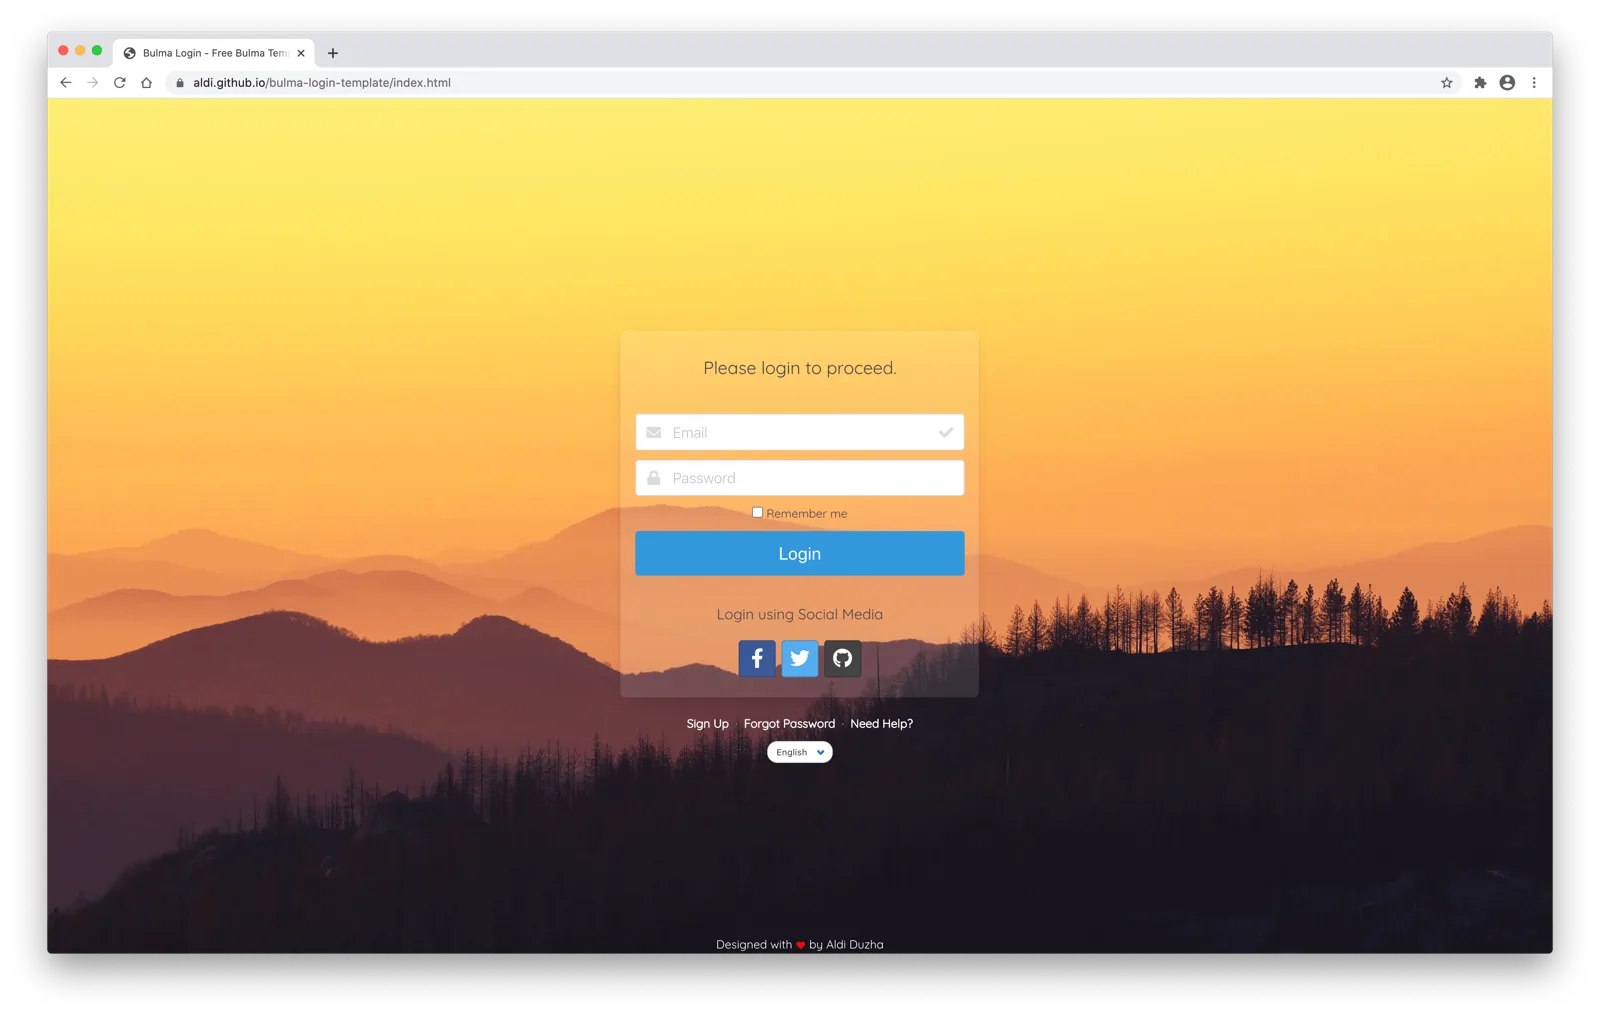
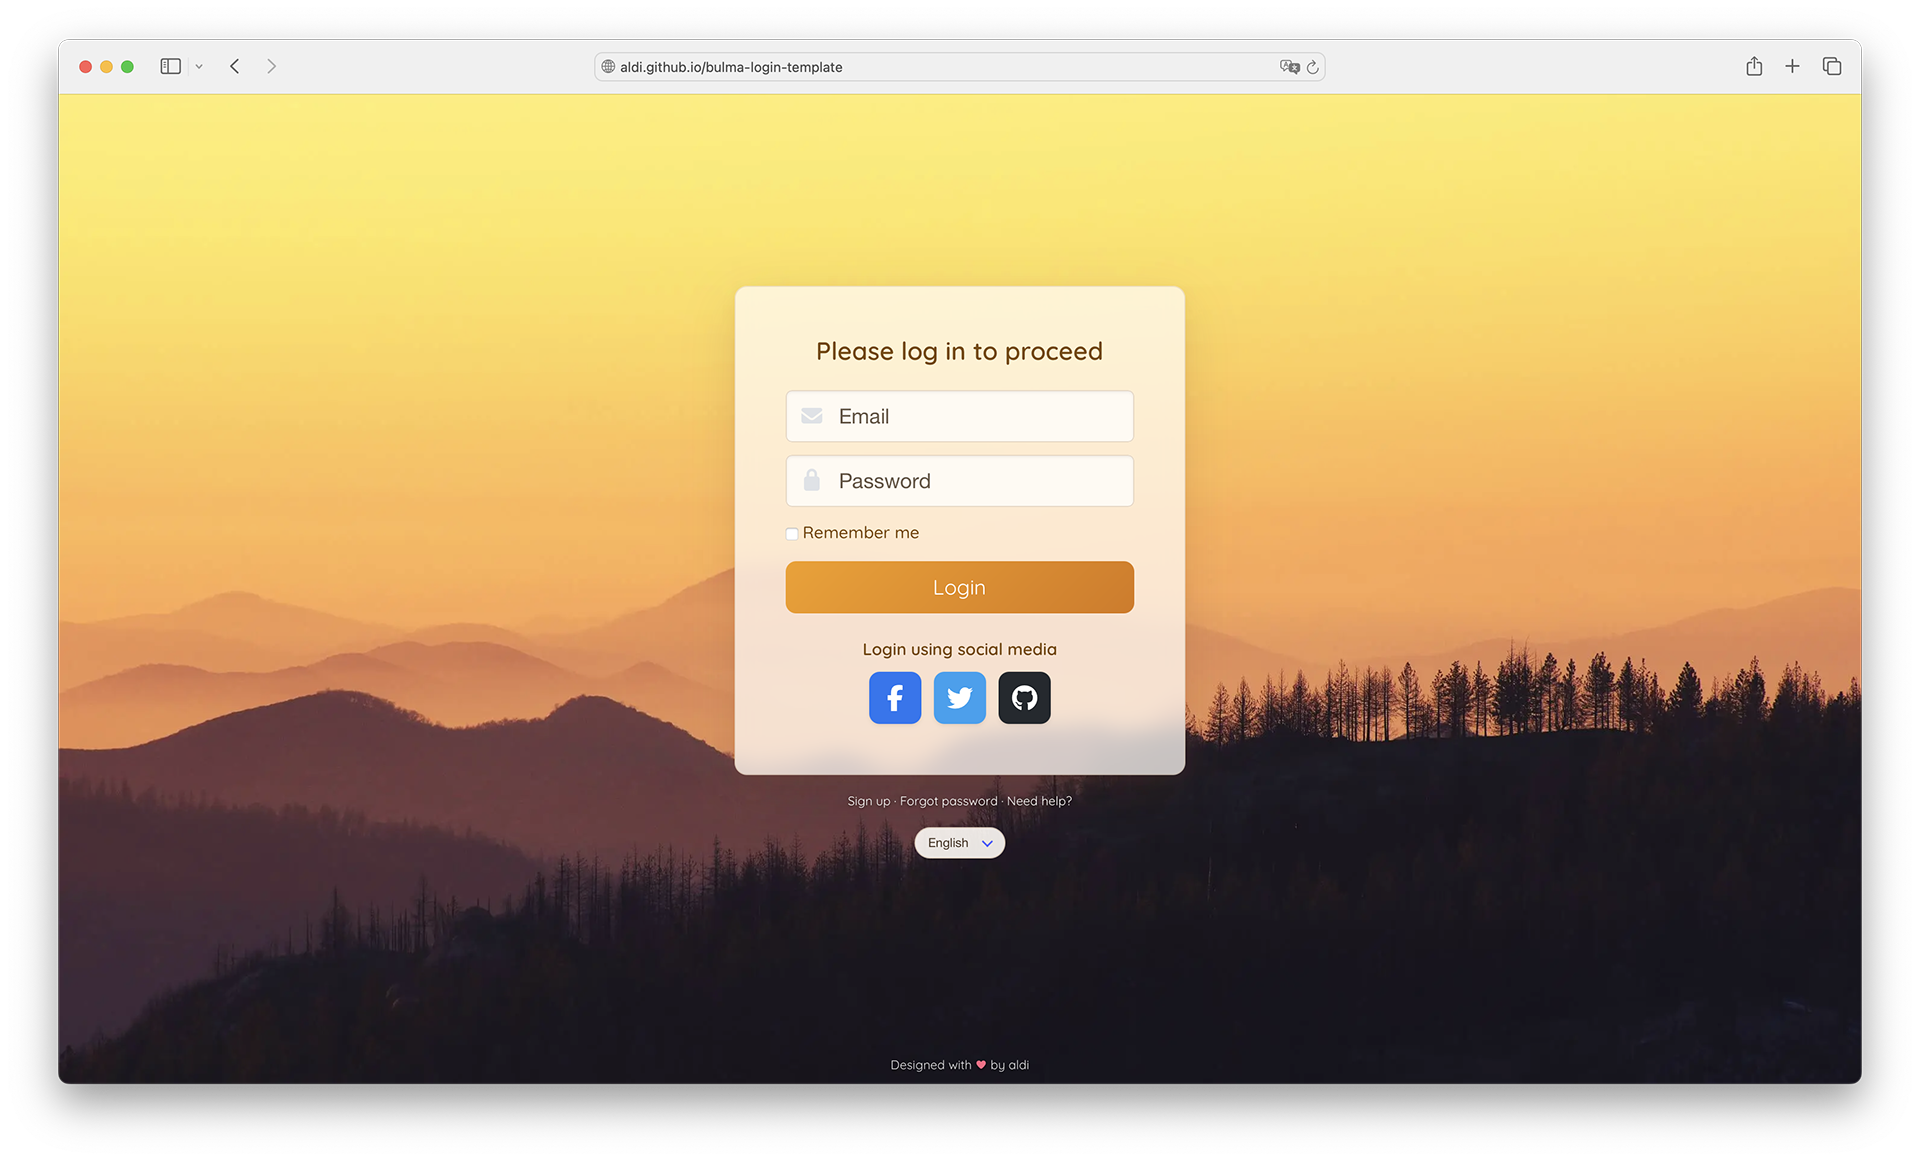
Update login template

diff --git a/docs/index.html b/docs/index.html
@@ -66,6 +66,32 @@
           <div class="column is-half-tablet is-half-widescreen is-one-third-fullhd">
             <article class="template-card">
               <header class="template-card-header">
+                <h2 class="template-card-title">Login</h2>
+                <div class="template-card-badges">
+                  <span class="tag is-green">Updated</span>
+                  <span class="tag is-purple">Bulma v1</span>
+                </div>
+              </header>
+              <div class="template-card-image">
+                <img src="previews/login.webp" alt="Login template screenshot" loading="lazy" decoding="async"
+                  width="1600" height="1016">
+              </div>
+              <footer class="template-card-footer">
+                <a href="https://aldi.github.io/bulma-login-template/" class="template-card-link" target="_blank"
+                  rel="noopener noreferrer">
+                  Preview
+                </a>
+                <a href="https://github.com/aldi/bulma-login-template/" class="template-card-link" target="_blank"
+                  rel="noopener noreferrer">
+                  Source Code
+                </a>
+              </footer>
+            </article>
+          </div>
+
+          <div class="column is-half-tablet is-half-widescreen is-one-third-fullhd">
+            <article class="template-card">
+              <header class="template-card-header">
                 <h2 class="template-card-title">CV</h2>
                 <div class="template-card-badges">
                   <span class="tag is-green">Updated</span>
@@ -188,32 +214,6 @@
                 </a>
                 <a href="https://github.com/restylianos/bulma-wedding-planner-template/" class="template-card-link"
                   target="_blank" rel="noopener noreferrer">
-                  Source Code
-                </a>
-              </footer>
-            </article>
-          </div>
-
-          <div class="column is-half-tablet is-half-widescreen is-one-third-fullhd">
-            <article class="template-card">
-              <header class="template-card-header">
-                <h2 class="template-card-title">Login</h2>
-                <div class="template-card-badges">
-
-                  <span class="tag is-purple">Bulma v0</span>
-                </div>
-              </header>
-              <div class="template-card-image">
-                <img src="previews/login.webp" alt="Login template screenshot" loading="lazy" decoding="async"
-                  width="1600" height="1016">
-              </div>
-              <footer class="template-card-footer">
-                <a href="https://aldi.github.io/bulma-login-template/" class="template-card-link" target="_blank"
-                  rel="noopener noreferrer">
-                  Preview
-                </a>
-                <a href="https://github.com/aldi/bulma-login-template/" class="template-card-link" target="_blank"
-                  rel="noopener noreferrer">
                   Source Code
                 </a>
               </footer>

diff --git a/README.md b/README.md
@@ -9,6 +9,9 @@ A curated collection of free, real-world templates built with the Bulma CSS Fram
 
 ## Templates 🎨
 
+Login Page Template: [Live Demo](https://aldi.github.io/bulma-login-template/) | [Source Code](https://github.com/aldi/bulma-login-template/)
+![Login Page template screenshot](docs/previews/login.webp)
+
 CV Template: [Live Demo](https://aldi.github.io/bulma-cv-template/) | [Source Code](https://github.com/aldi/bulma-cv-template/)
 ![CV template screenshot](docs/previews/cv.webp)
 
@@ -23,9 +26,6 @@ Tropico Template: [Live Demo](https://restylianos.github.io/bulma-tropico-templa
 
 Wedding Planner Template: [Live Demo](https://restylianos.github.io/bulma-wedding-planner-template/) | [Source Code](https://github.com/restylianos/bulma-wedding-planner-template/)
 ![Wedding Planner template screenshot](docs/previews/Wedding-Planner.webp)
-
-Login Page Template: [Live Demo](https://aldi.github.io/bulma-login-template/) | [Source Code](https://github.com/aldi/bulma-login-template/)
-![Login Page template screenshot](docs/previews/login.webp)
 
 Rent Template: [Live Demo](https://aldi.github.io/bulma-rent-template/) | [Source Code](https://github.com/aldi/bulma-rent-template/)
 ![Rent template screenshot](docs/previews/rent.webp)